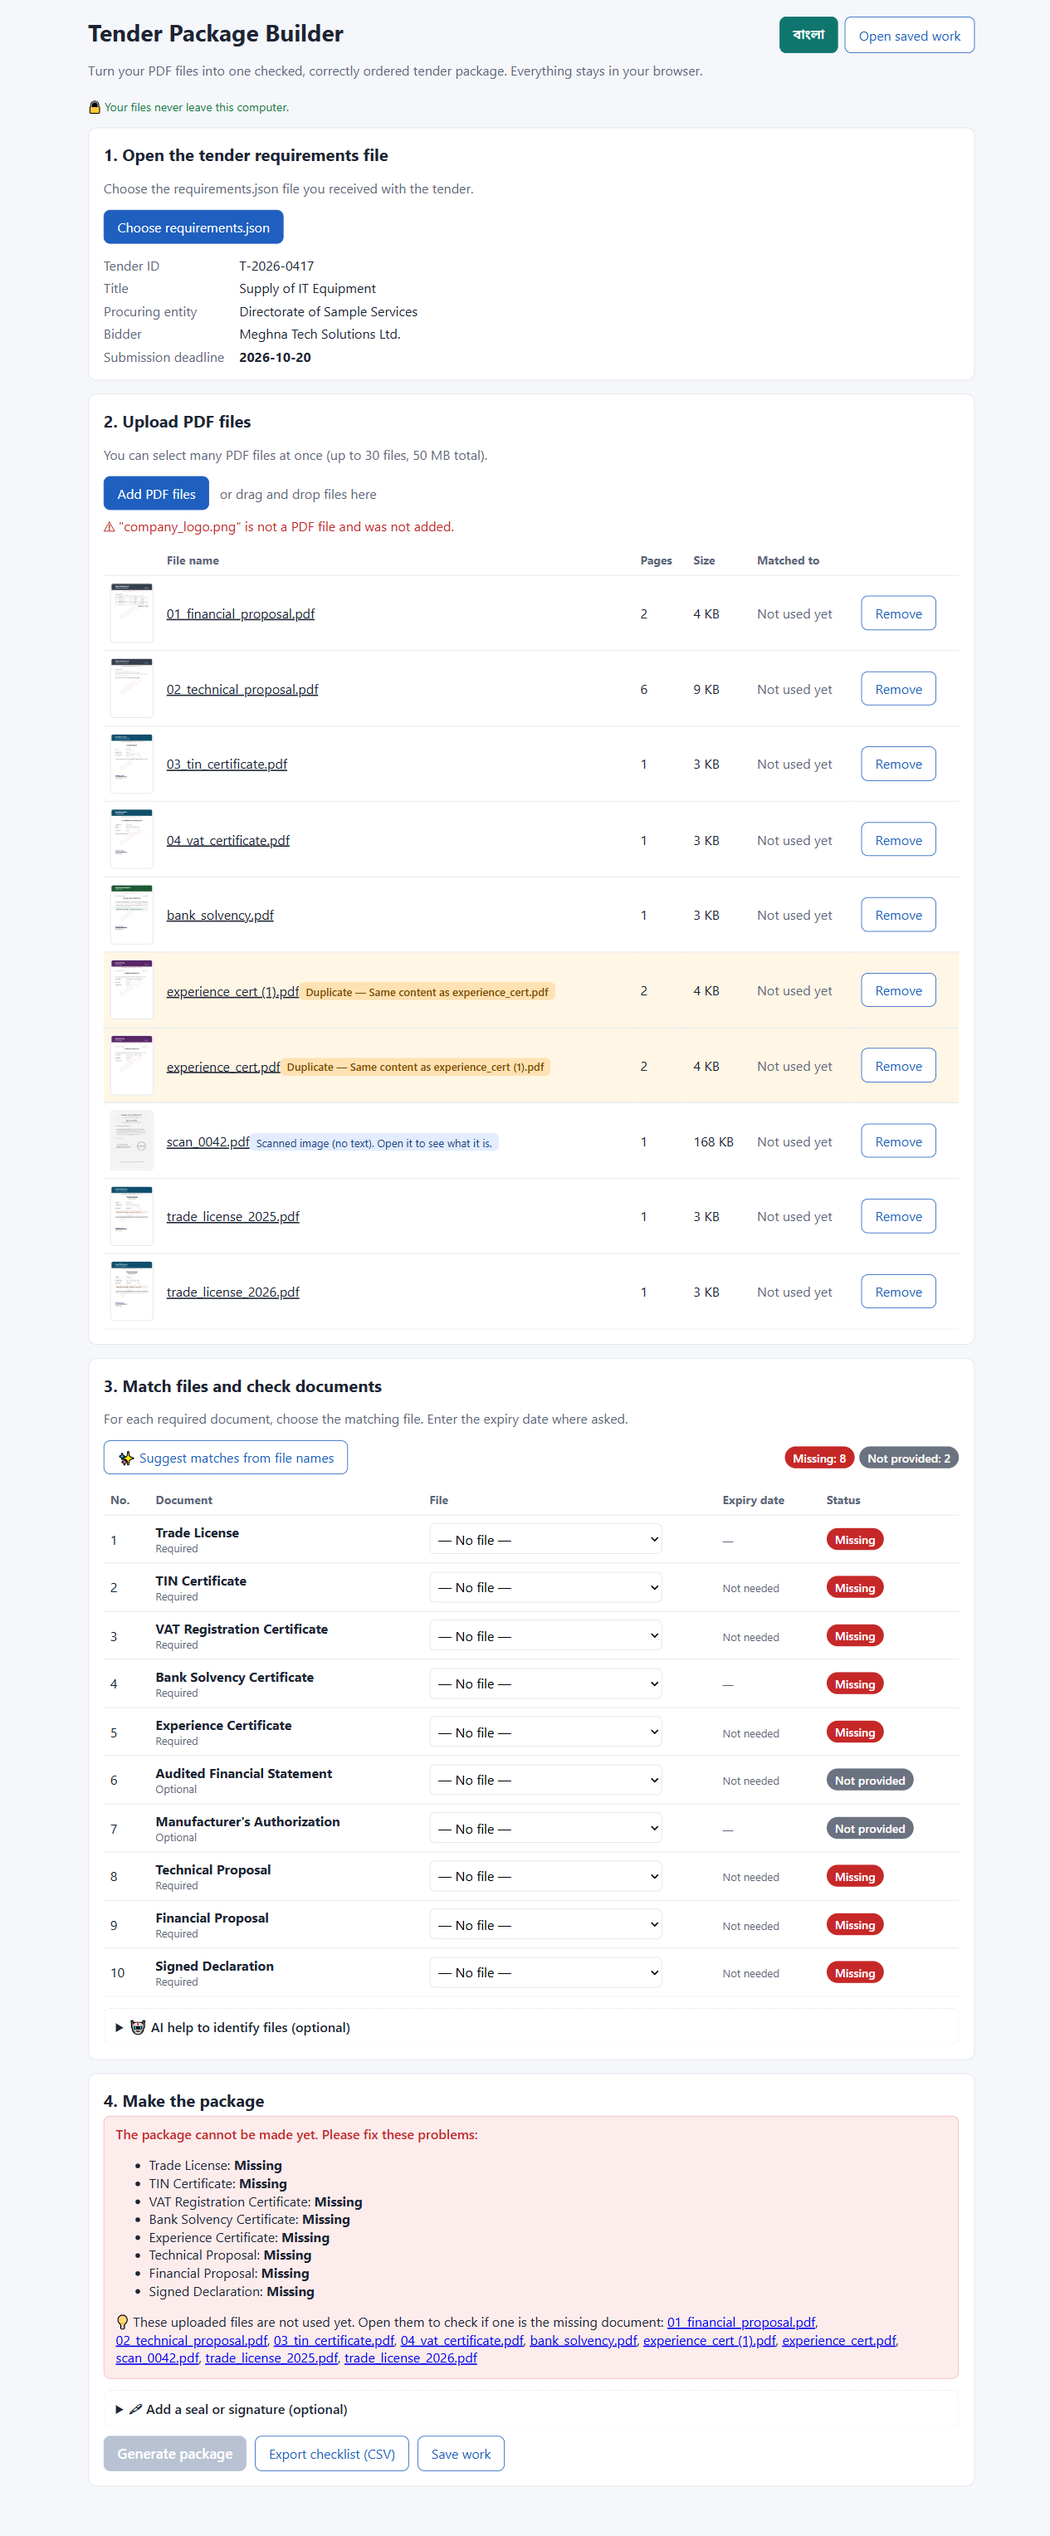
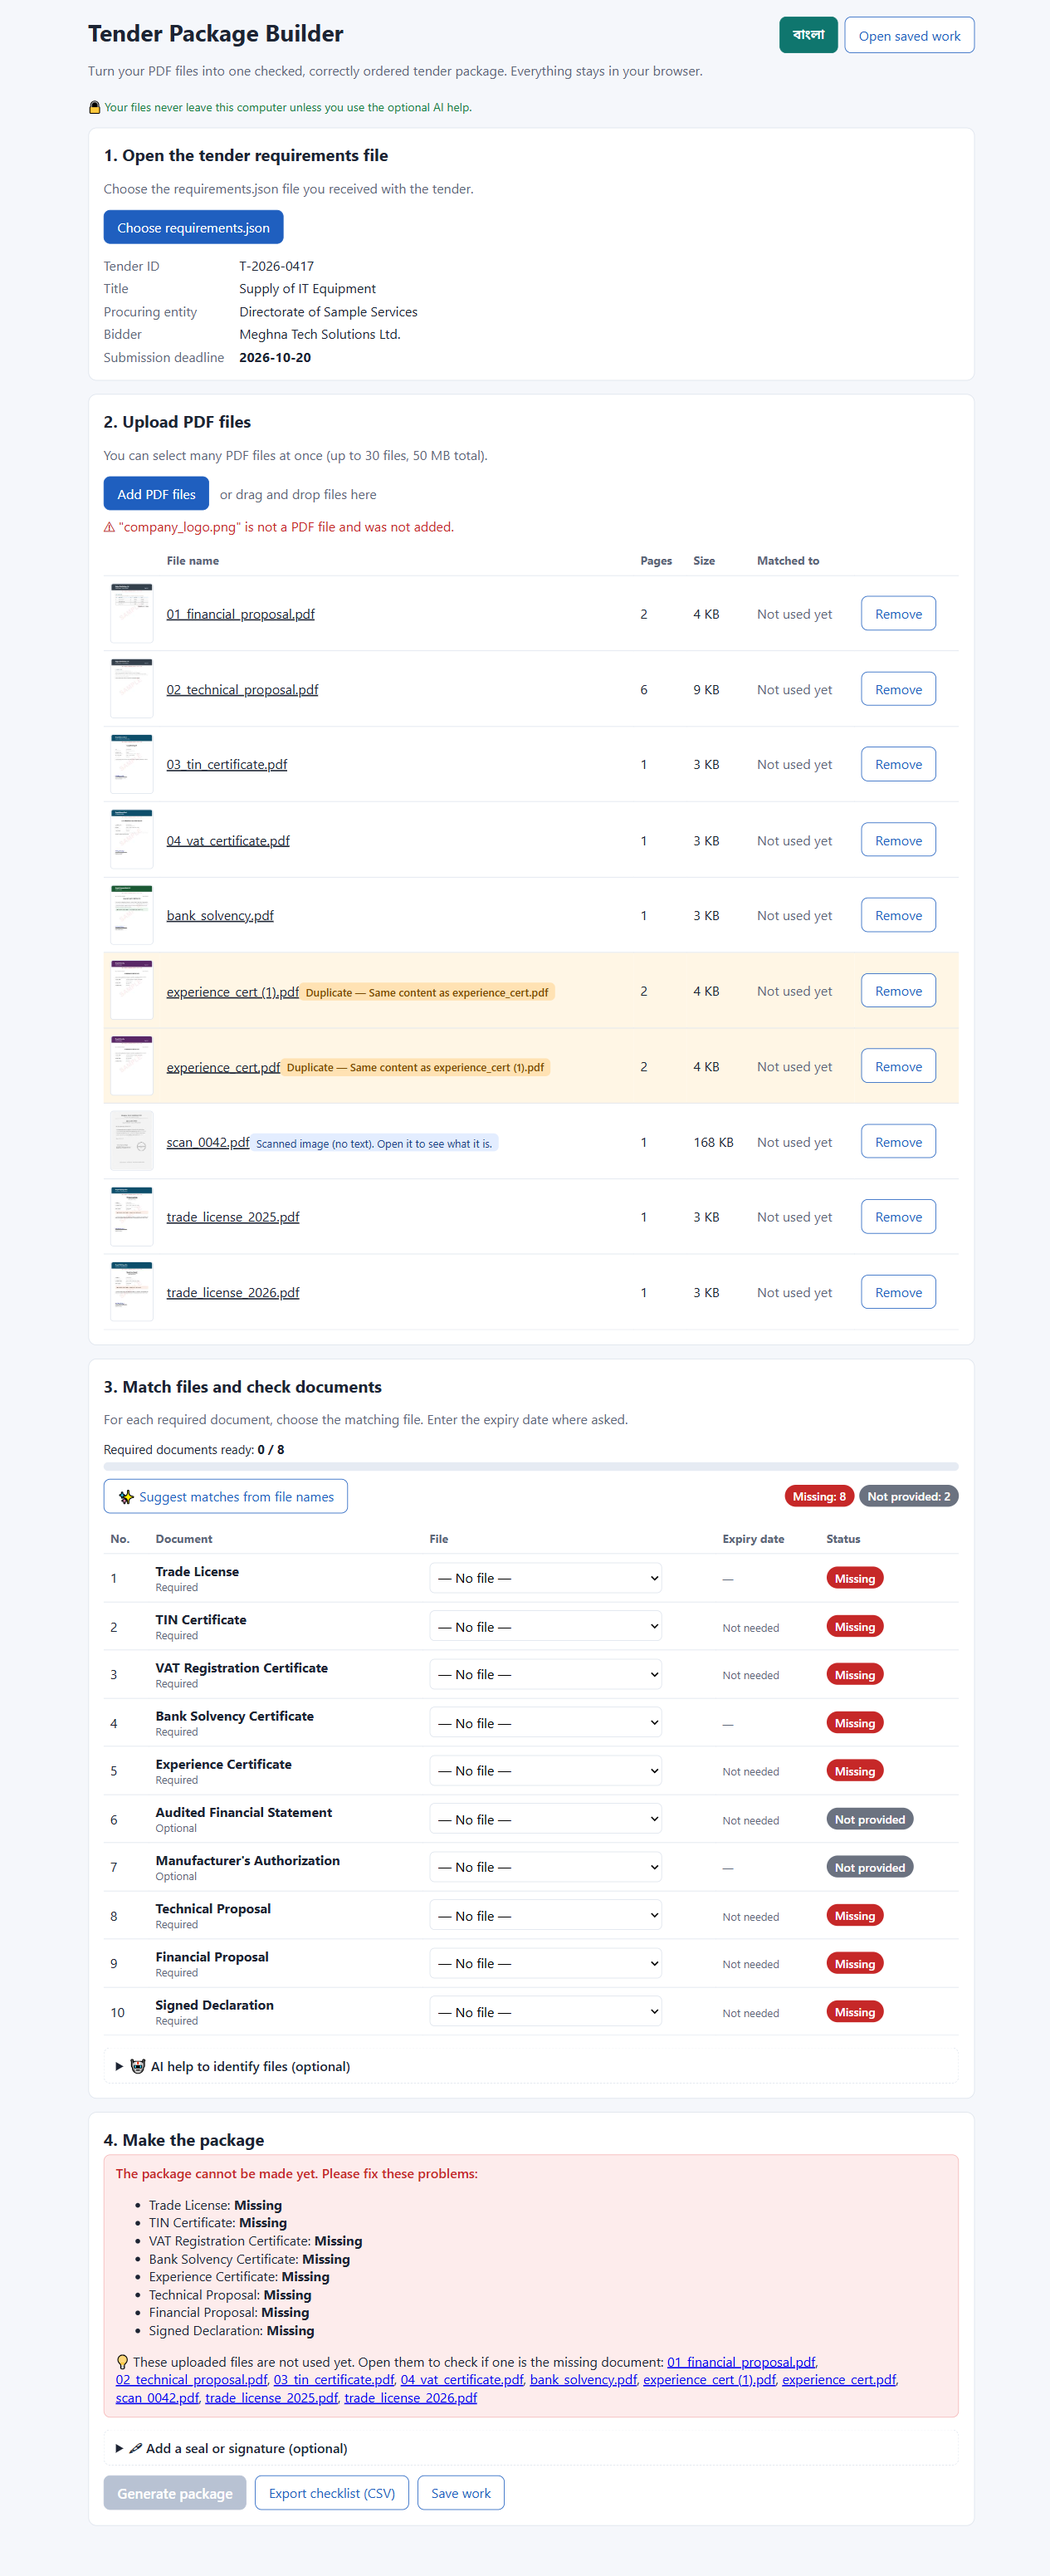
Add the final sample package generated on the live site, five screenshots (statuses, Bangla, offline) and README updates
Prompt: "deep researchdo something extra orinarym out of the box thing  for making champion"

diff --git a/README.md b/README.md
@@ -49,6 +49,9 @@ Status rules follow §5 exactly. Dates are compared as `YYYY-MM-DD` strings (no 
 - ✅ **Auto-match:** scores file names (plus first-page text for badly named files), picks the newest year when two files tie, and never uses duplicates.
 - ✅ **Bad files handled safely:** non-PDF (header check, not only the extension), damaged and password-protected PDFs, and the 30-file / 50 MB limits each get a clear message.
 - ✅ **AI help (optional):** the user types their own Anthropic API key, which stays in memory and is never saved. On click, only the unused files are sent (text, or a picture of page 1 for scanned files) to suggest matches. Everything else works without AI. No key is in this repository or the site.
+- ➕ **Works offline:** an installable web app with a service worker. After one visit it runs with no internet, which suits offices with unreliable connections. Only the app's own files are cached, never tender documents.
+- ➕ **Package preview in the page:** check the cover, index and page numbers before downloading.
+- ➕ **Readiness bar** ("Required documents ready: 7 / 8") and an **early expiry warning** when a document is valid 30 days or less after the deadline. The warning does not block; the §5 rules stay exactly as written.
 - ➕ Extra help for non-technical users: expiry dates found in the PDF text are offered as hints (never filled in automatically), scanned files carry a "scanned image" badge, unused files are listed when a document is missing, status count chips, and the chosen language is remembered.
 
 ## Sample pack: problems found and resolved
@@ -61,7 +64,16 @@ Status rules follow §5 exactly. Dates are compared as `YYYY-MM-DD` strings (no 
 | `01_financial…`, `02_technical…`, `03_tin…`, `04_vat…` | Number prefixes in the file names do not follow the tender order | Order always comes from `requirements.json` |
 | Audited Financial Statement, Manufacturer's Authorization | No file (optional) | **Not provided**, does not block |
 
-Result: [`output/T-2026-0417_Package.pdf`](output/T-2026-0417_Package.pdf), 17 pages = cover + index + 15 document pages. Screenshots are in [`screenshots/`](screenshots/).
+Result: [`output/T-2026-0417_Package.pdf`](output/T-2026-0417_Package.pdf), 17 pages = cover + index + 15 document pages, generated on the live site.
+
+## Screenshots
+| | |
+|---|---|
+| Upload: non-PDF rejected, duplicates flagged, thumbnails | [`01_upload_rejects_duplicates.png`](screenshots/01_upload_rejects_duplicates.png) |
+| **Document statuses** with problems (Expired, Expiry date needed, Missing, Not provided) and Generate blocked with reasons | [`02_statuses_problems_en.png`](screenshots/02_statuses_problems_en.png) |
+| All fixed: every status OK, package ready, preview | [`03_all_ok_package_ready_en.png`](screenshots/03_all_ok_package_ready_en.png) |
+| The same screen in Bangla | [`04_all_ok_bangla.png`](screenshots/04_all_ok_bangla.png) |
+| Offline mode | [`05_offline_mode.png`](screenshots/05_offline_mode.png) |
 
 ## Known problems / limits
 - The cover page is English only, as the rules require; Bangla appears on the index page.
